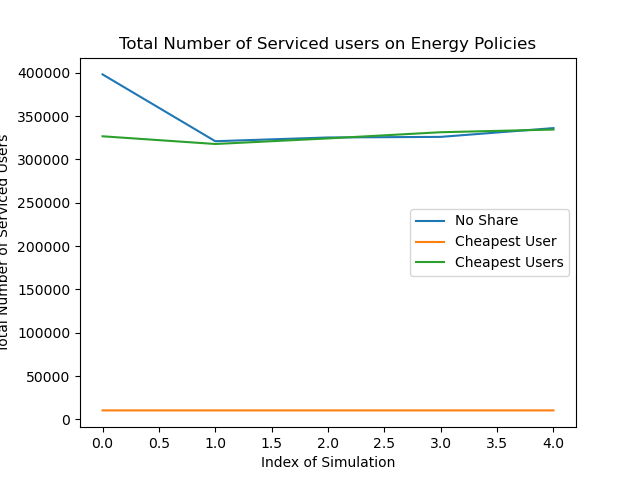
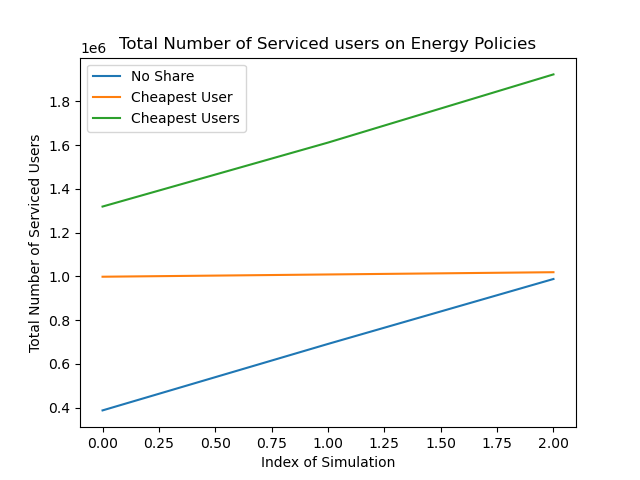
Test refactor main

diff --git a/main.py b/main.py
@@ -1,9 +1,15 @@
+from random import randint
 import matplotlib.pyplot as plt
 from network_simulator.components import simulator
+from network_simulator.components import Location
+from network_simulator.components import AccessPoint
+from network_simulator.components import User
+from network_simulator.poissonPointProcess import generateUsersPPP
 from network_simulator.discreteMarkov import energyArrivalStates
+from network_simulator.testPolicy import energyPolicyTest
 from progress.bar import Bar
 
-def initVariable():
+def initVariable(ppp):
     """ Initilise starting variables
 
     A dict is generated and modified as needed. This modified dict is passed into the simulator.
@@ -16,16 +22,31 @@ def initVariable():
         "ENERGY_GEN_MAX" : 0.75, # Watt  
         "PANEL_SIZE" : 5, # cm^2
         "ENERGY_USE_BASE" : 0.4417, # Watt per 5 minutes 5.3/60*5
-        "AP_TOTAL" : 1,
-        "USR_TOTAL" : 20,
+        "AP_TOTAL" : 5,
+        "USR_TOTAL" : 100,
         "POWER_RECEIVED_DBM" : -60, 
-        "TIME_MAX" : 10,
+        "TIME_MAX" : 10000,
         "DIST_MOVEUSER_MAX" : 5,
         "ENERGY_POLICY" : 0,
         "SHARE_ENERGY" : 0,
     }
     init_vars["POWER_RECEIVED_REQUIRED"] = 1 * pow(10, init_vars["POWER_RECEIVED_DBM"]/10) * 60 * 5 * 0.001 # Watts per 5 minutes
-    return init_vars
+
+    GRID_SIZE = init_vars["GRID_SIZE"]
+    ENERGY_STORE_MAX = init_vars["ENERGY_STORE_MAX"]
+    AP_TOTAL = init_vars["AP_TOTAL"]
+    USR_TOTAL = init_vars["USR_TOTAL"]
+
+    # Generate fixed User and AP list
+    aplist = [AccessPoint(index, Location(randint(0, GRID_SIZE), randint(0, GRID_SIZE)), randint(0, ENERGY_STORE_MAX)) for index in range(AP_TOTAL)]
+
+    if ppp == 1:
+        usr_x, usr_y = generateUsersPPP(GRID_SIZE, USR_TOTAL / GRID_SIZE / GRID_SIZE)
+
+        usrlist = [User(i, Location(usr_x[i], usr_y[i])) for i in range(len(usr_x))]
+    else:
+        usrlist = [User(index, Location(randint(0, GRID_SIZE), randint(0, GRID_SIZE))) for index in range(USR_TOTAL)]
+    return init_vars, aplist, usrlist
 
 if __name__ == '__main__':
 
@@ -43,11 +64,15 @@ if __name__ == '__main__':
     #######################
     #  Simulator Section  #
     #######################
-    init_vars = initVariable()
+    init_vars, aplist, usrlist = initVariable(1)
+    # Retain the same list for passing into the simulator
+    tmp_init_vars = init_vars
+    tmp_aplist = aplist
+    tmp_usrlist = usrlist
     markovstates = energyArrivalStates(init_vars["TIME_MAX"])
     init_vars["markov"] = markovstates
 
-    [aploc, usrloc, serviced] = simulator(init_vars, 1, 0)
+    # [aploc, usrloc, serviced] = simulator(init_vars, 1, 0)
     # [aploc_ppp, usrloc_ppp, serviced] = simulator(init_vars, 1, 1)
     # Number of Access Points
     # range_AP_total = range(1, 50, 5)
@@ -233,5 +258,6 @@ if __name__ == '__main__':
     # plt.savefig('energystorage.png')
     # plt.show()
 
-# Energy Stored is after the time slot
-# Energy Use is the energy used within the time slot
+    plt = energyPolicyTest(tmp_init_vars, tmp_aplist, tmp_usrlist)
+    
+    plt.savefig('energypolicyppp.png')

diff --git a/network_simulator/testPolicy.py b/network_simulator/testPolicy.py
@@ -1,0 +1,92 @@
+""" Energy Policy Tests
+
+"""
+import matplotlib.pyplot as plt
+from network_simulator.components import simulator
+from progress.bar import Bar
+
+def energyPolicyTest(init_vars, aplist, usrlist):
+    # Initilise environment variables
+    total_runs = range(3)
+
+    init_vars_store = init_vars
+    aplist_store = aplist
+    usrlist_store = usrlist
+    
+    """ Test Policy 1:
+            - No Energy Share
+            - No PPP
+    """
+    bar = Bar('Running simulation (Energy Policy: No Energy Sharing)', max=len(total_runs))
+    serviced_noshare = []
+
+    init_vars["ENERGY_POLICY"] = 0
+    for run in total_runs:
+        tmp_init_vars = init_vars_store
+        tmp_aplist = aplist_store
+        tmp_usrlist = usrlist_store
+
+        serviced_noshare.append(simulator(tmp_init_vars, tmp_aplist, tmp_usrlist))
+        bar.next()
+    bar.finish()
+    avg_serviced_noshare = sum(serviced_noshare) / len(total_runs)
+
+
+
+    """ Test Policy 2:
+            - Only servicing the cheapest user
+            - No PPP
+    """
+    bar = Bar('Running simulation (Energy Policy: Cheapest User)', max=len(total_runs))
+    serviced_cheapest = []
+
+    init_vars["ENERGY_POLICY"] = 1
+    for run in total_runs:
+        tmp_init_vars = init_vars_store
+        tmp_aplist = aplist_store
+        tmp_usrlist = usrlist_store
+
+        serviced_cheapest.append(simulator(tmp_init_vars, tmp_aplist, tmp_usrlist))
+        bar.next()
+    bar.finish()
+    avg_serviced_cheapest = sum(serviced_cheapest) / len(total_runs)
+
+
+
+    """ Test Policy 3:
+            - Only servicing the cheapest users (More than one)
+            - No PPP
+    """
+    bar = Bar('Running simulation (Energy Policy: Cheapest Users)', max=len(total_runs))
+    serviced_cheapestusers = []
+
+    init_vars["ENERGY_POLICY"] = 2
+    for run in total_runs:
+        tmp_init_vars = init_vars_store
+        tmp_aplist = aplist_store
+        tmp_usrlist = usrlist_store
+
+        serviced_cheapestusers.append(simulator(tmp_init_vars, tmp_aplist, tmp_usrlist))
+        bar.next()
+    bar.finish()
+    avg_serviced_cheapestusers = sum(serviced_cheapestusers) / len(total_runs)
+
+
+
+    print("Total Serviced Users (No Energy Sharing): {}".format(serviced_noshare))
+    print("Total Serviced Users (Cheapest): {}".format(serviced_cheapest))
+    print("Total Serviced Users (Cheapest Users): {}".format(serviced_cheapestusers))
+
+    plot = plt.figure(1)
+    plt.plot(range(len(serviced_noshare)), serviced_noshare, label="No Share")
+    plt.plot(range(len(serviced_cheapest)), serviced_cheapest, label="Cheapest User")
+    plt.plot(range(len(serviced_cheapestusers)), serviced_cheapestusers, label="Cheapest Users")
+    plt.legend()
+    plt.xlabel('Index of Simulation')
+    plt.ylabel('Total Number of Serviced Users')
+    plt.title('Total Number of Serviced users on Energy Policies')
+
+    return plt
+
+
+    

diff --git a/maintest_policy.py b/maintest_policy.py
@@ -57,9 +57,7 @@ if __name__ == "__main__":
     init_vars, aplist, usrlist = initVariable(1)
     markovstates = energyArrivalStates(init_vars["TIME_MAX"])
     init_vars["markov"] = markovstates
-
-
-
+    
     """ Test Policy 1:
             - No Energy Share
             - No PPP
@@ -69,7 +67,10 @@ if __name__ == "__main__":
 
     init_vars["ENERGY_POLICY"] = 0
     for run in total_runs:
-        serviced_noshare.append(simulator(init_vars, aplist, usrlist))
+        tmp_init_vars = init_vars
+        tmp_aplist = aplist
+        tmp_usrlist = usrlist
+        serviced_noshare.append(simulator(tmp_init_vars, tmp_aplist, tmp_usrlist))
         bar.next()
     bar.finish()
     avg_serviced_noshare = sum(serviced_noshare) / len(total_runs)
@@ -85,7 +86,10 @@ if __name__ == "__main__":
 
     init_vars["ENERGY_POLICY"] = 1
     for run in total_runs:
-        serviced_cheapest.append(simulator(init_vars, aplist, usrlist))
+        tmp_init_vars = init_vars
+        tmp_aplist = aplist
+        tmp_usrlist = usrlist
+        serviced_cheapest.append(simulator(tmp_init_vars, tmp_aplist, tmp_usrlist))
         bar.next()
     bar.finish()
     avg_serviced_cheapest = sum(serviced_cheapest) / len(total_runs)
@@ -101,7 +105,10 @@ if __name__ == "__main__":
 
     init_vars["ENERGY_POLICY"] = 2
     for run in total_runs:
-        serviced_cheapestusers.append(simulator(init_vars, aplist, usrlist))
+        tmp_init_vars = init_vars
+        tmp_aplist = aplist
+        tmp_usrlist = usrlist
+        serviced_cheapestusers.append(simulator(tmp_init_vars, tmp_aplist, tmp_usrlist))
         bar.next()
     bar.finish()
     avg_serviced_cheapestusers = sum(serviced_cheapestusers) / len(total_runs)

diff --git a/network_simulator/components.py b/network_simulator/components.py
@@ -240,18 +240,6 @@ def initialiseEnv(init_vars):
 
     markovstates = init_vars["markov"]
 
-    # Reset Counters
-    for ap in aplist:
-        ap.energy_consumed = 0
-        ap.energy_consumed_prev = 0
-        # Non zero energy consumption
-        ap.energy_consumed_prev_nz = 0
-        ap.service_counter = 0
-        ap.energy_shared = 0
-
-    for user in usrlist:
-        user.connected_ap = ["Not Connected", "No Distance"]
-
     # Create Markov states
     # markovstates = energyArrivalStates(TIME_MAX)
 

diff --git a/__init__.py b/__init__.py
@@ -1,0 +1,2 @@
+
+__version__ = '0.0.1'
